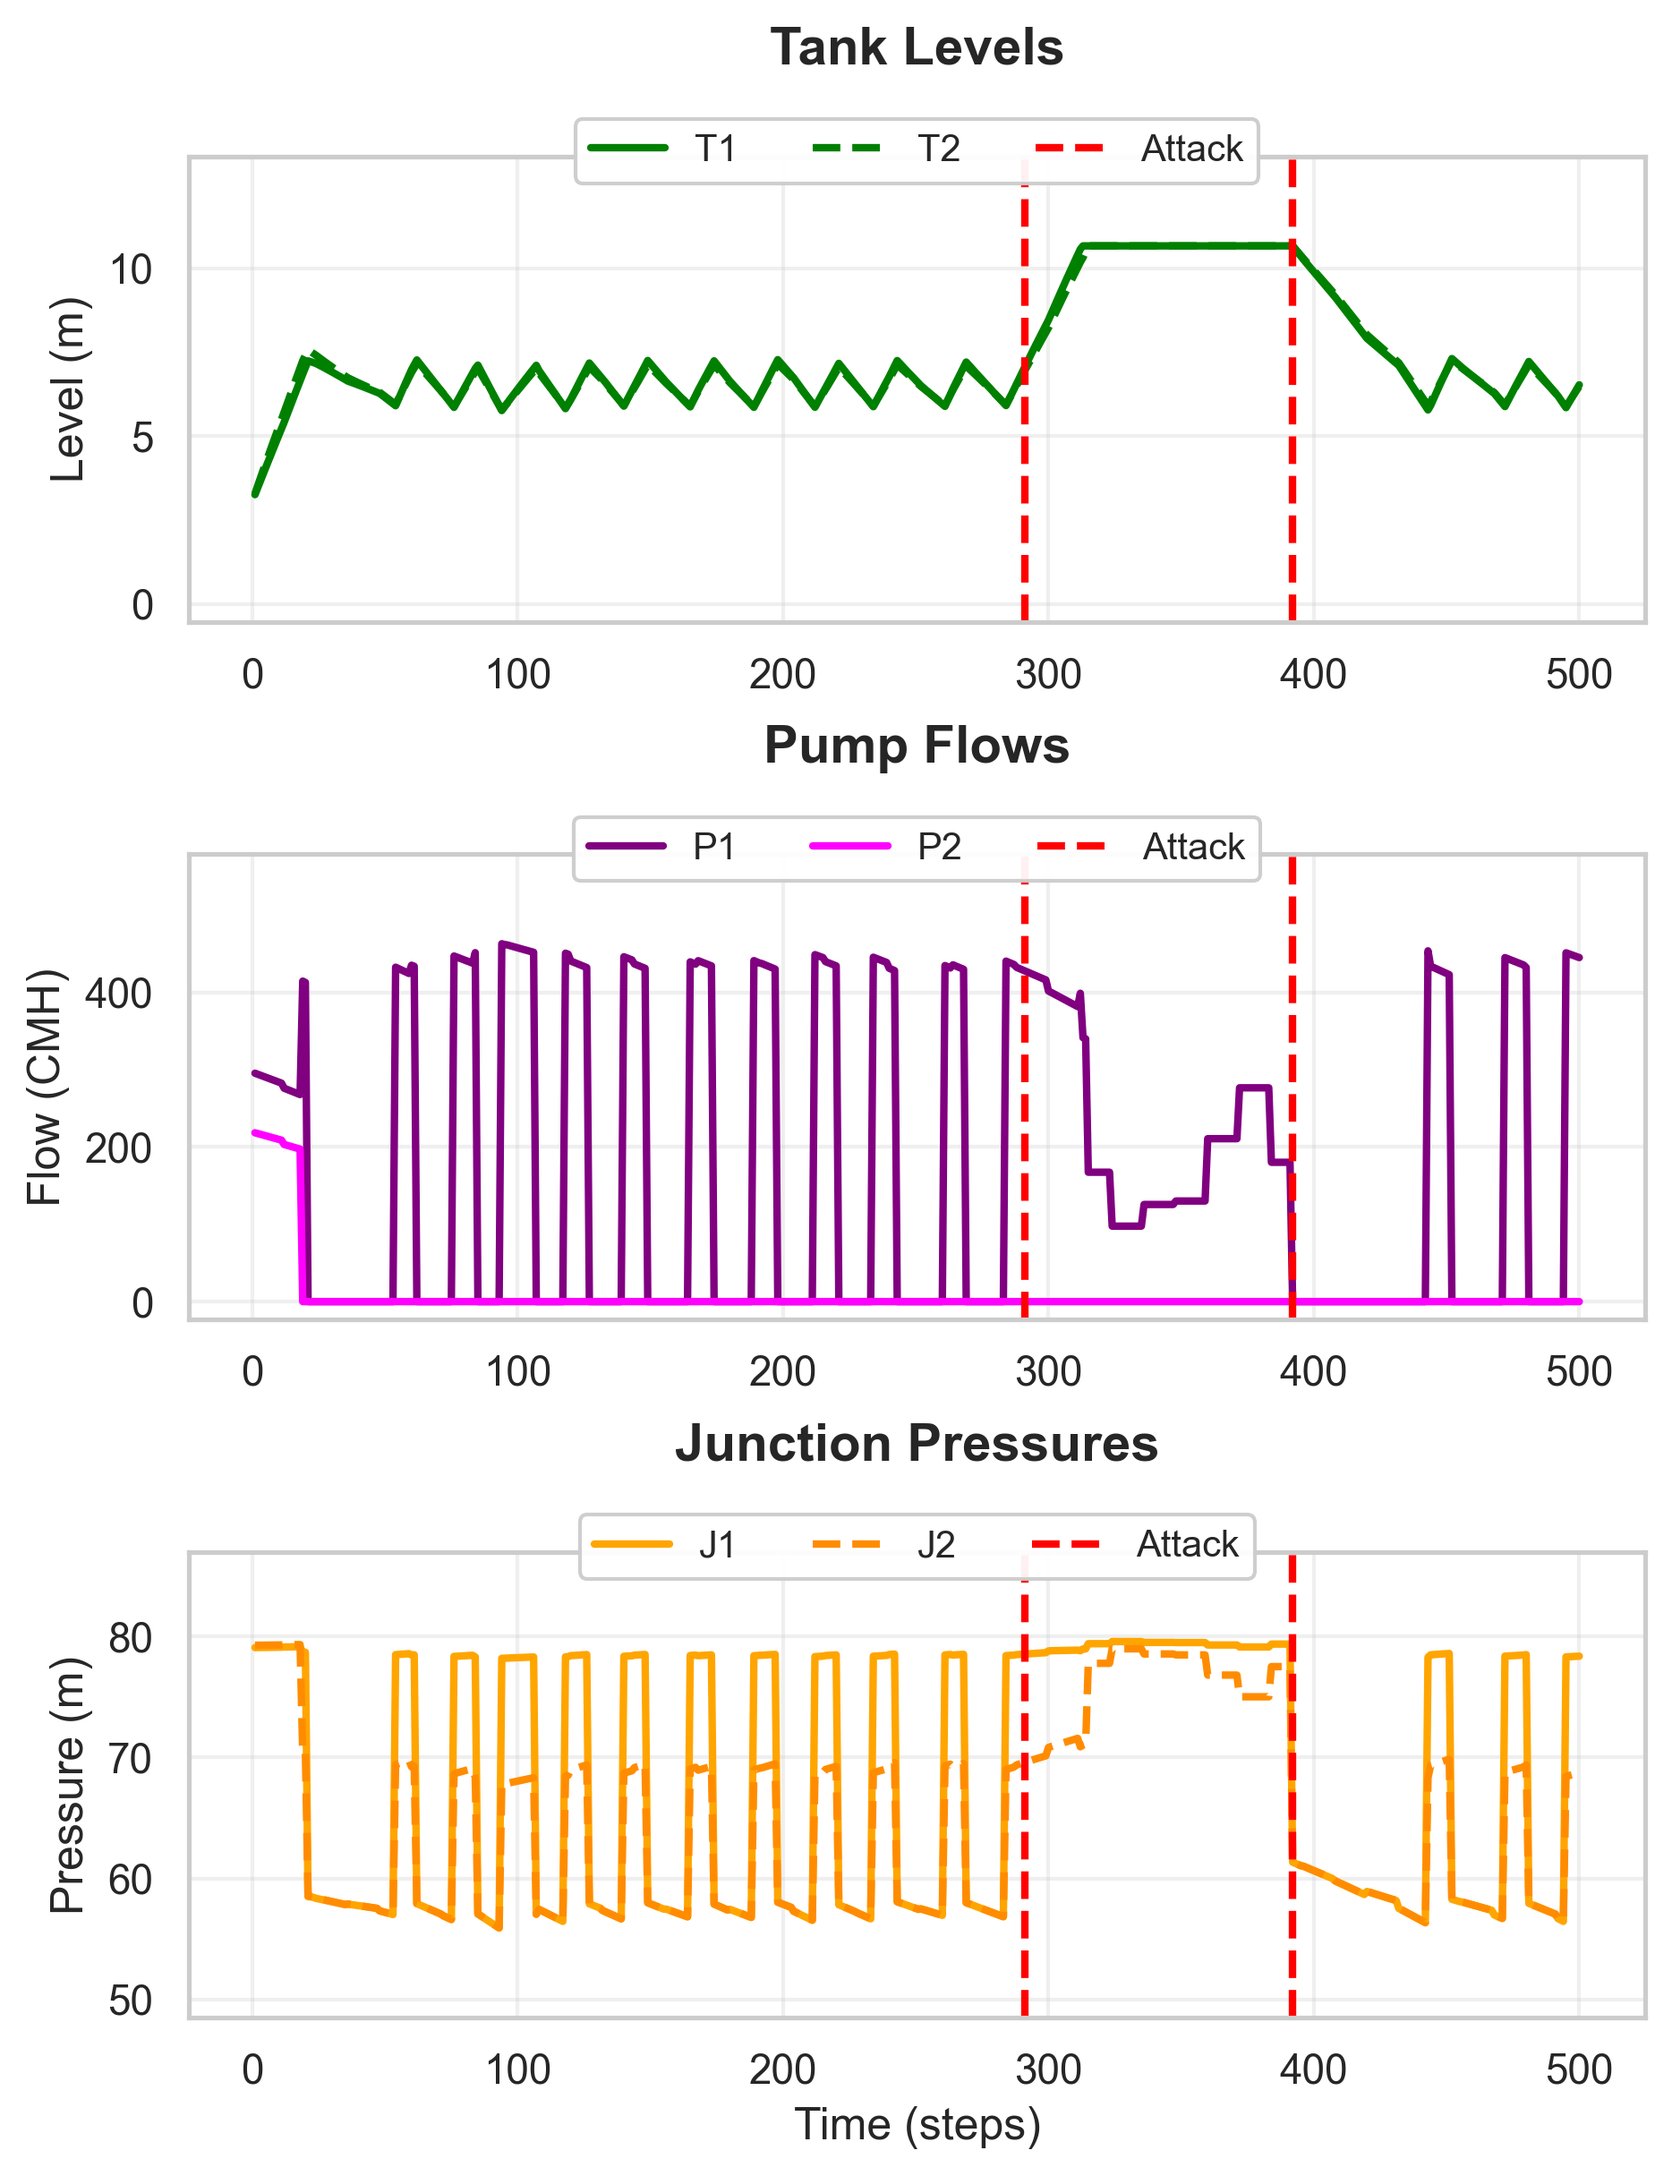
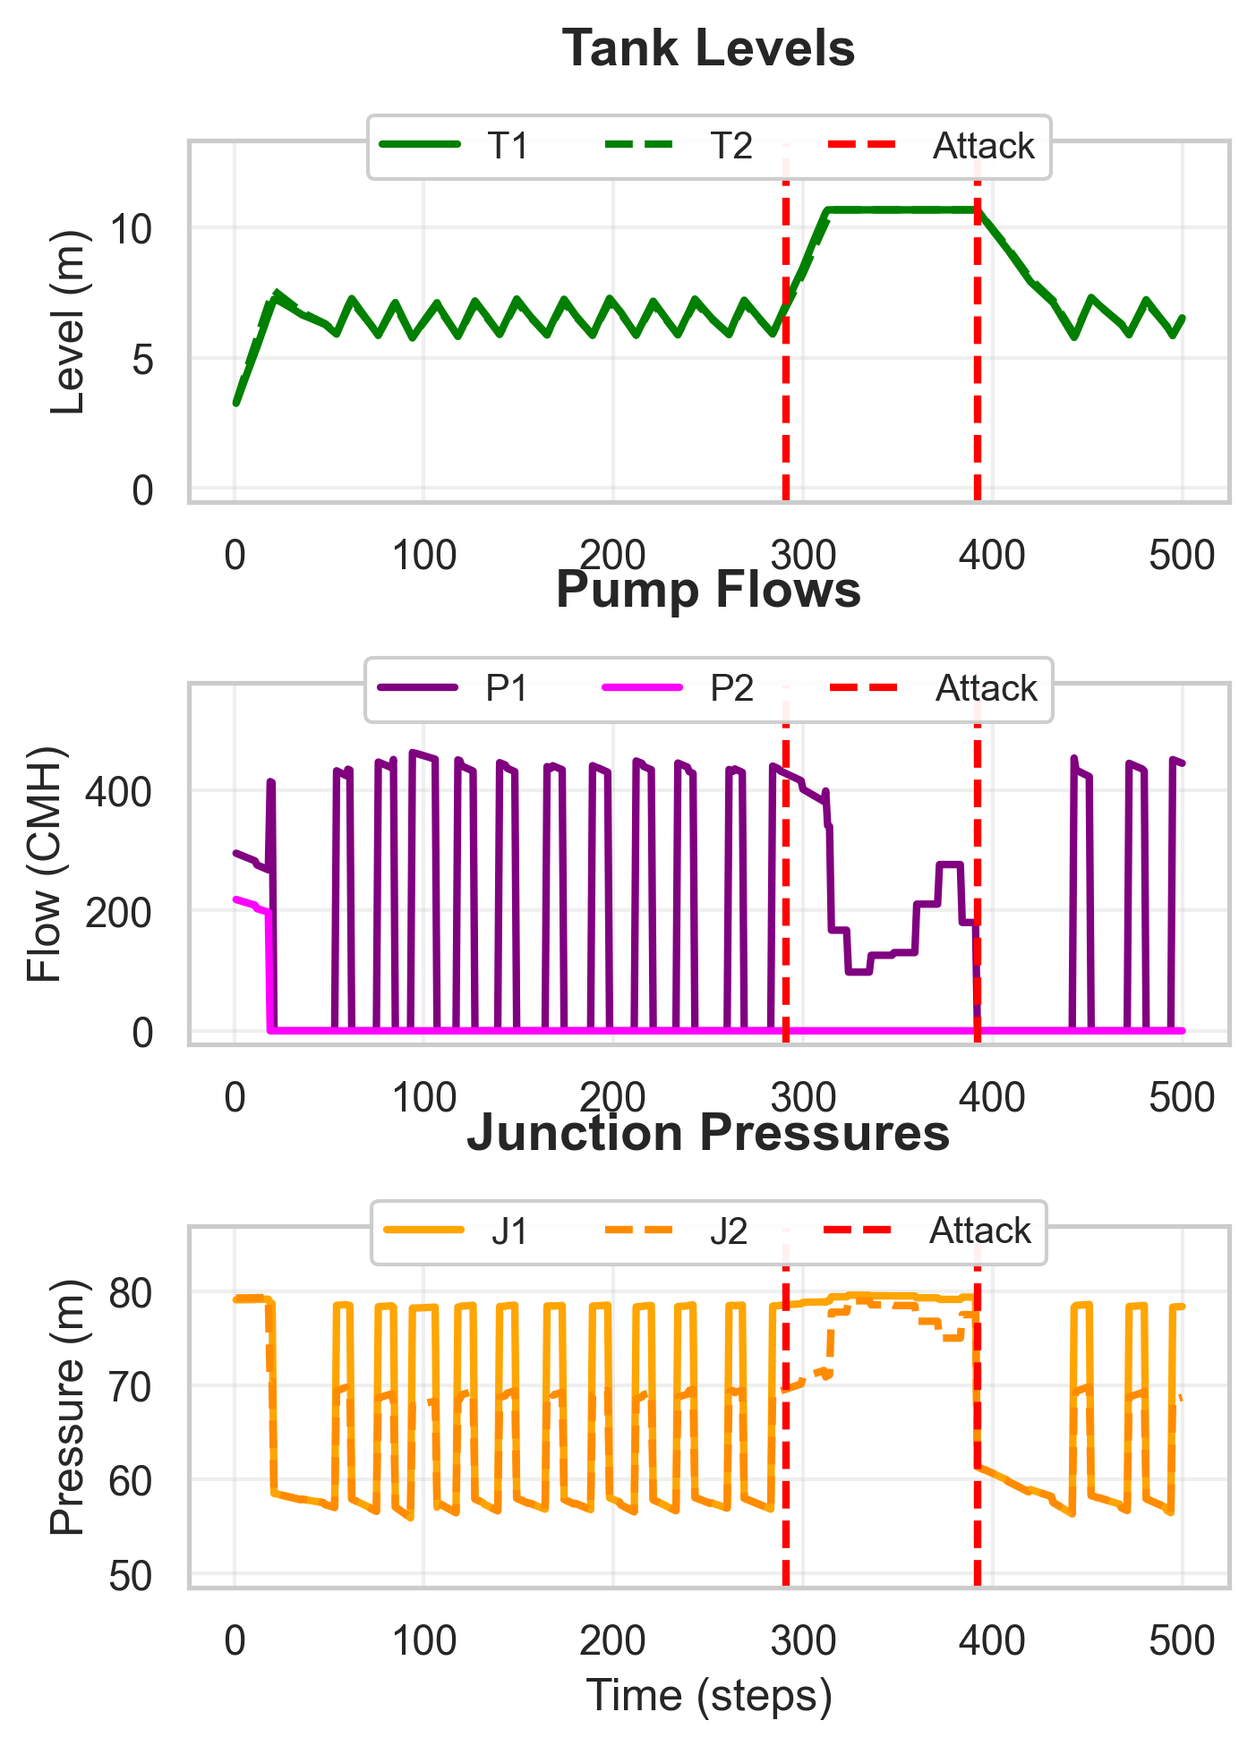
Reduce physical plot size to (5,7) for better Overleaf scaling

Changed region(s): [[0.0, 0.0, 1.0, 0.9841], [0.2758, 0.9226, 0.3678, 0.9534], [0.1226, 0.9226, 0.2145, 0.9534]]

diff --git a/aaaMyViz/run_visualization.py b/aaaMyViz/run_visualization.py
@@ -219,7 +219,7 @@ try:
     attack_intervals = find_attack_intervals(ground_truth_df, 'plc2AttackerUnit')
     attack_start, attack_end = attack_intervals[0]
 
-    fig, axes = plt.subplots(3, 1, figsize=(7, 9), gridspec_kw={'height_ratios': [1, 1, 1]})
+    fig, axes = plt.subplots(3, 1, figsize=(5, 7), gridspec_kw={'height_ratios': [1, 1, 1]})
 
     # Tank Levels
     axes[0].plot(ground_truth_df['iteration'], ground_truth_df['T1_LEVEL'], label='T1', color='green', linewidth=2)
@@ -269,7 +269,7 @@ except Exception as e:
 print("\n[2/4] Generating DoS No Guard - SCADA View plot...")
 
 try:
-    fig2, axes2 = plt.subplots(3, 1, figsize=(7, 9), sharex=True)
+    fig2, axes2 = plt.subplots(3, 1, figsize=(5, 7), sharex=True)
 
     # Tank Levels
     axes2[0].plot(scada_df['iteration'], scada_df['T1'], label='T1', color='green', linewidth=2)
@@ -326,7 +326,7 @@ try:
     attack_intervals_guard = find_attack_intervals(ground_truth_guard_df, 'plc2AttackerUnit')
     attack_start_guard, attack_end_guard = attack_intervals_guard[0]
 
-    fig3, axes3 = plt.subplots(3, 1, figsize=(7, 9), gridspec_kw={'height_ratios': [1, 1, 1]})
+    fig3, axes3 = plt.subplots(3, 1, figsize=(5, 7), gridspec_kw={'height_ratios': [1, 1, 1]})
 
     # Tank Levels
     axes3[0].plot(ground_truth_guard_df['iteration'], ground_truth_guard_df['T1_LEVEL'], label='T1', color='green', linewidth=2)
@@ -376,7 +376,7 @@ except Exception as e:
 print("\n[4/4] Generating DoS WITH Guard - SCADA View plot...")
 
 try:
-    fig4, axes4 = plt.subplots(3, 1, figsize=(7, 9), sharex=True)
+    fig4, axes4 = plt.subplots(3, 1, figsize=(5, 7), sharex=True)
 
     # Tank Levels
     axes4[0].plot(scada_guard_df['iteration'], scada_guard_df['T1'], label='T1', color='green', linewidth=2)
